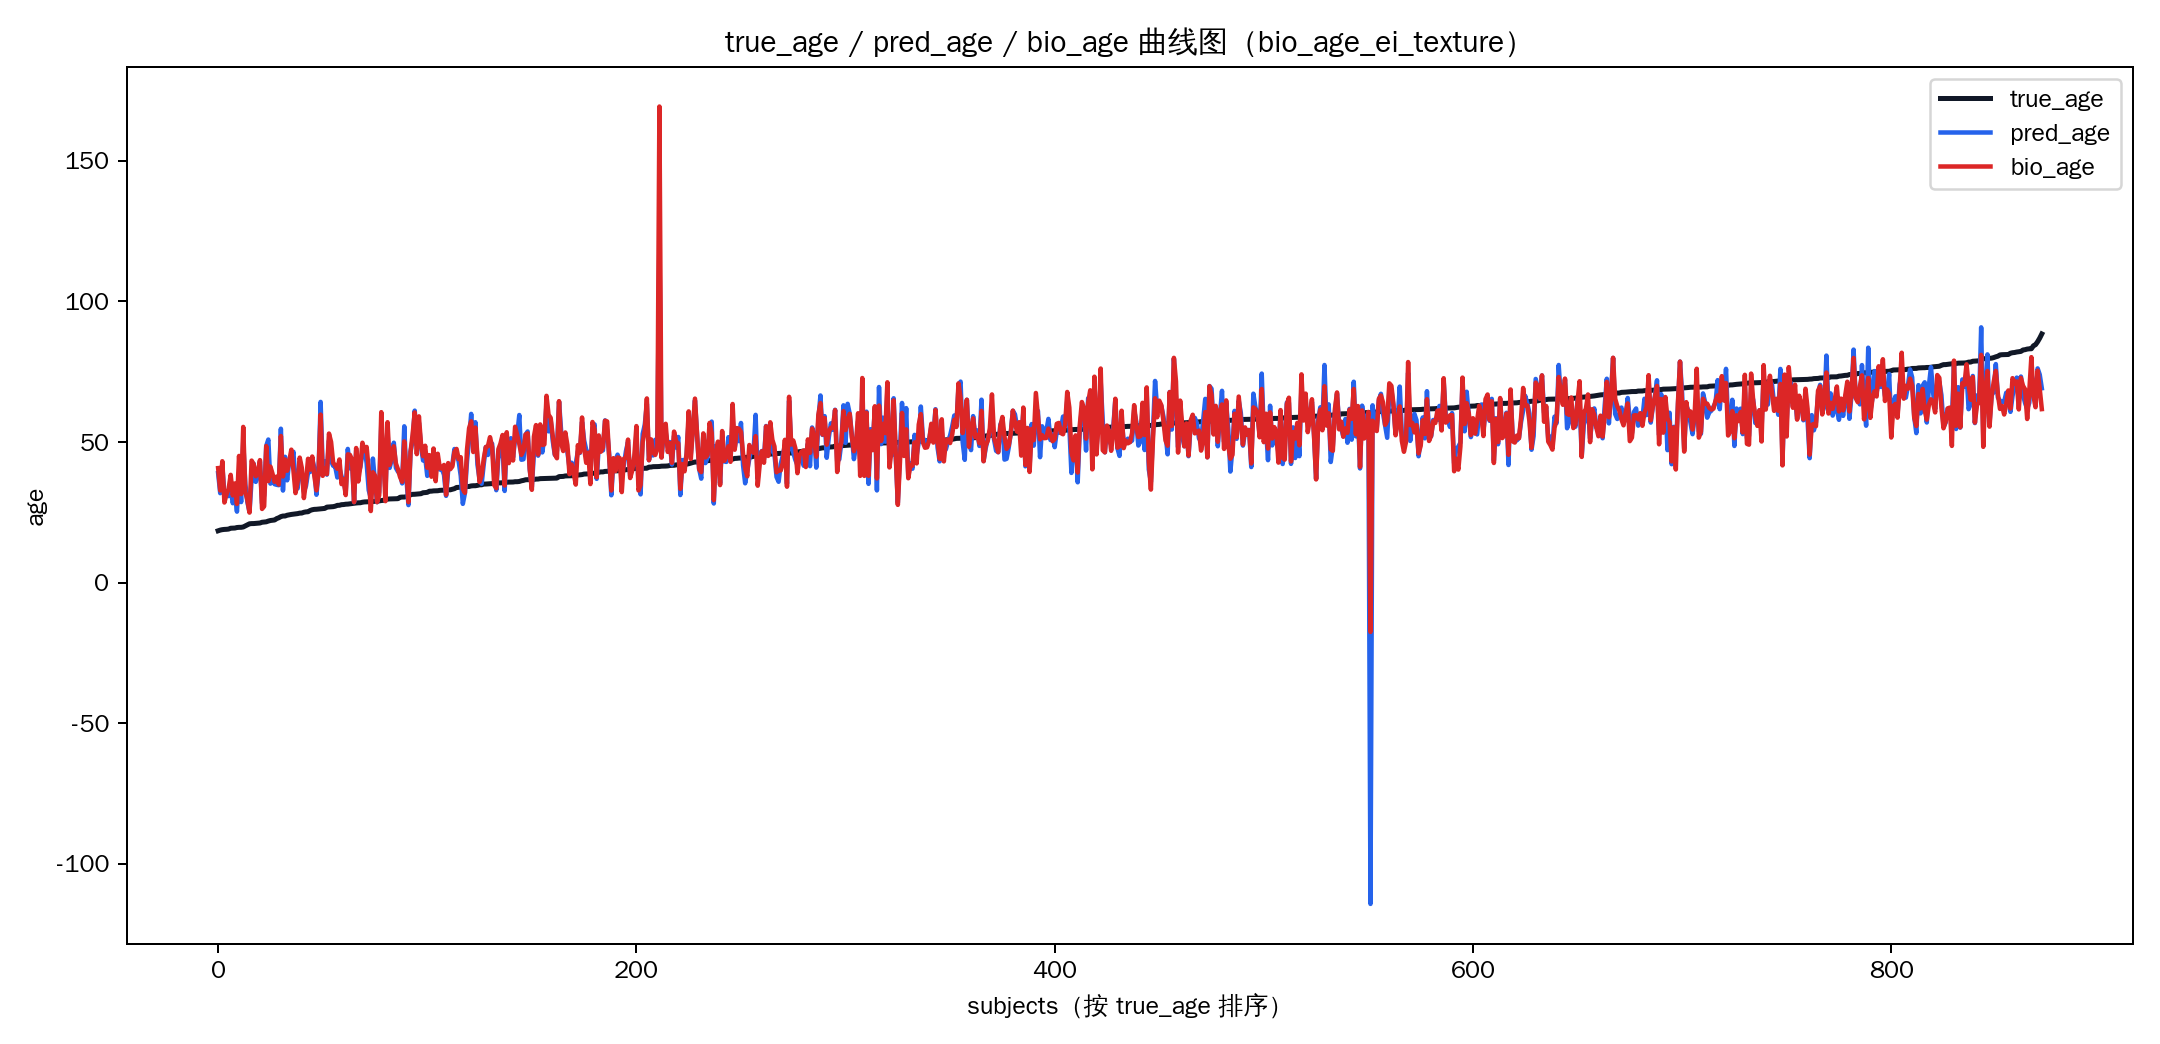
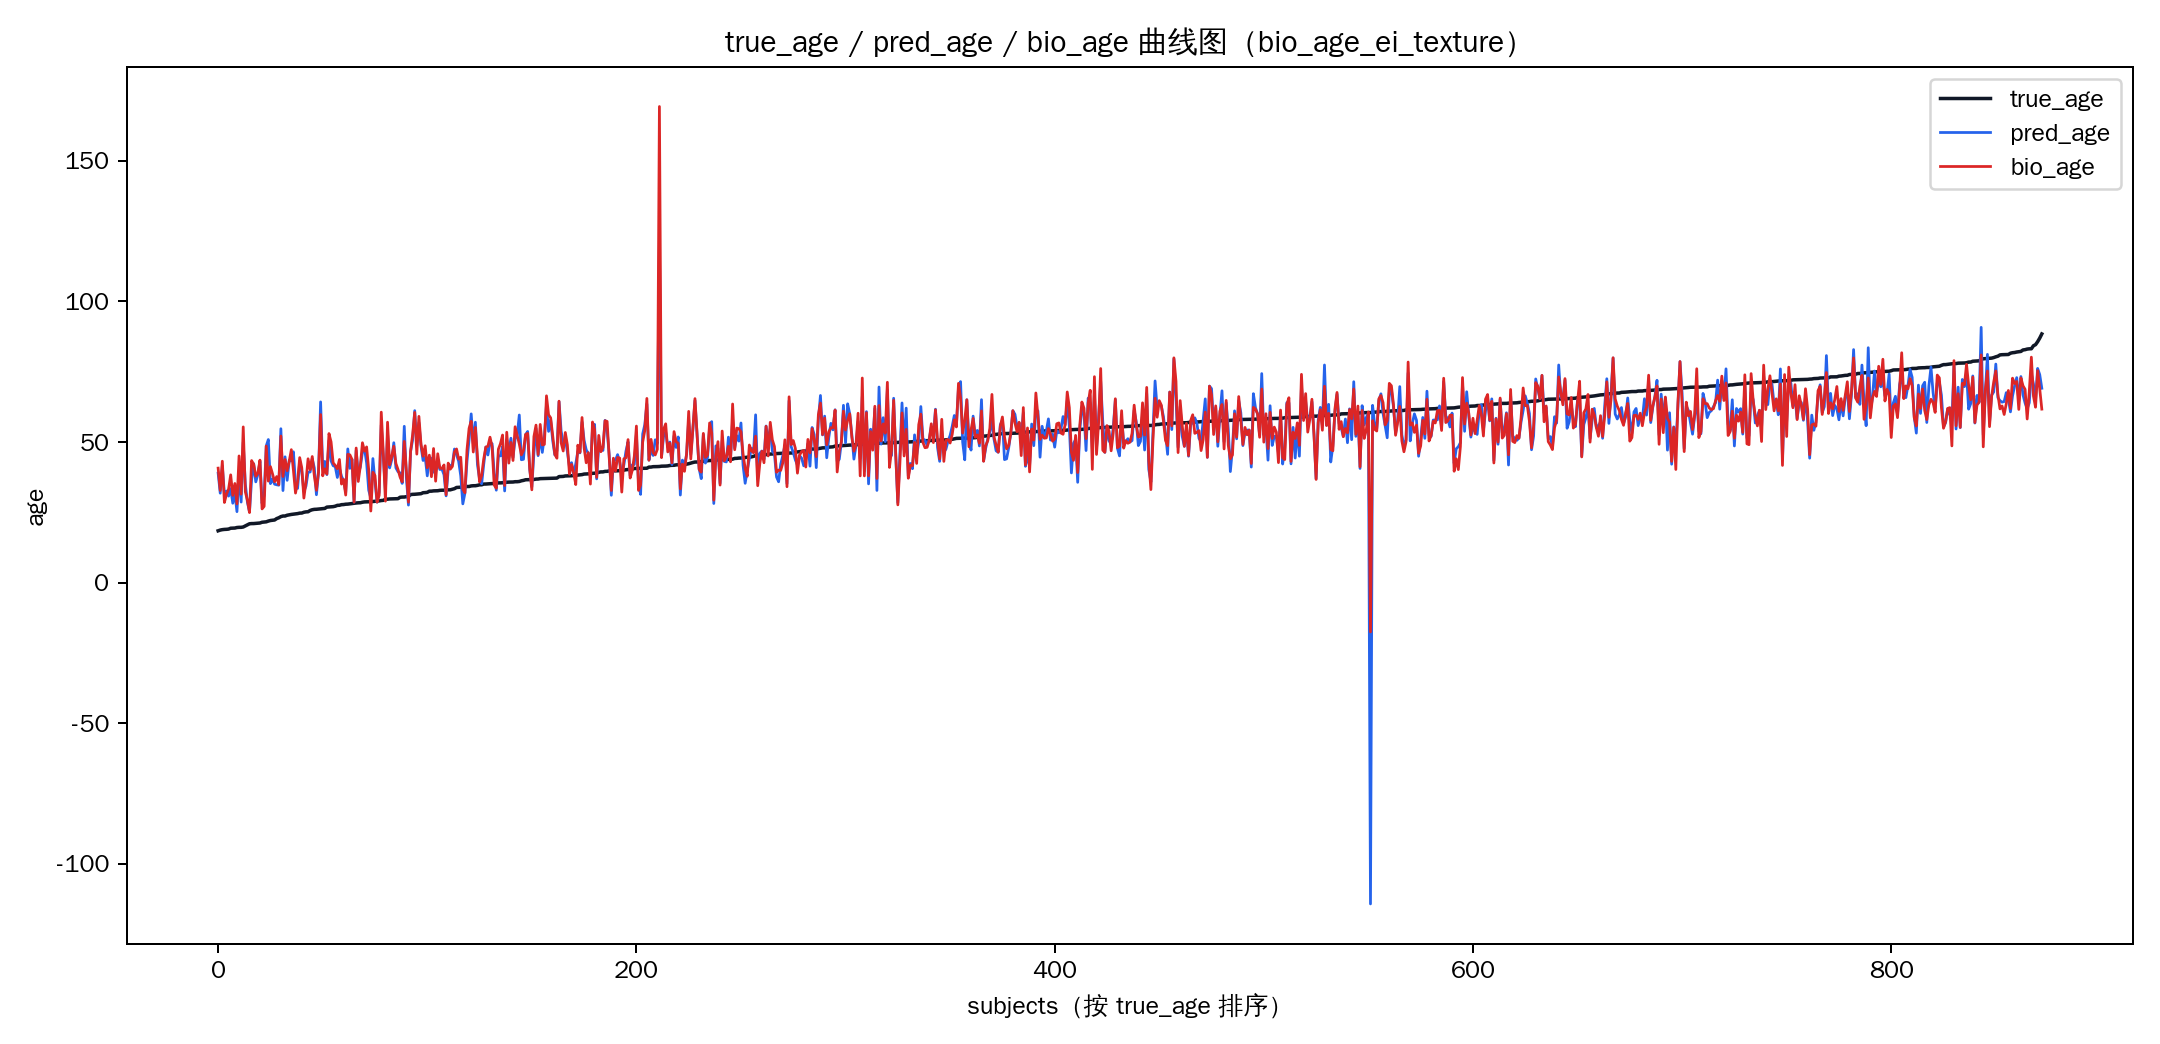
Use 10-year segmented age curves in single report

Changed region(s): [[0.0931, 0.3372, 0.9616, 0.4904]]

diff --git a/state_age_feature_benchmark/build_single_ml_report.py b/state_age_feature_benchmark/build_single_ml_report.py
@@ -35,8 +35,8 @@ AXIS_DESCRIPTIONS = {
     "bio_age_texture_metadata": "实用上限参考，不作为主科学定义。",
     "bio_age_full_image_upper_bound": "实用上限参考，不作为主科学定义。",
 }
-AGE_BINS = [18.0, 40.0, 60.0, 80.0, float("inf")]
-AGE_BAND_LABELS = ["18-39", "40-59", "60-79", "80+"]
+AGE_BINS = [18.0, 30.0, 40.0, 50.0, 60.0, 70.0, 80.0, 90.0, float("inf")]
+AGE_BAND_LABELS = ["18-29", "30-39", "40-49", "50-59", "60-69", "70-79", "80-89", "90+"]
 
 
 def infer_ml_run_name(pred_path: str) -> str:
@@ -104,9 +104,9 @@ def save_age_curve_plot(frame: pd.DataFrame, path: Path, title: str) -> None:
     plot_frame = frame.sort_values(["true_age", "subject_id"]).reset_index(drop=True).copy()
     x = np.arange(len(plot_frame))
     plt.figure(figsize=(12, 5.8))
-    plt.plot(x, plot_frame["true_age"], label="true_age", linewidth=2.0, color="#111827")
-    plt.plot(x, plot_frame["pred_age"], label="pred_age", linewidth=1.8, color="#2563eb")
-    plt.plot(x, plot_frame["bio_age"], label="bio_age", linewidth=1.8, color="#dc2626")
+    plt.plot(x, plot_frame["true_age"], label="true_age", linewidth=1.4, color="#111827")
+    plt.plot(x, plot_frame["pred_age"], label="pred_age", linewidth=1.1, color="#2563eb")
+    plt.plot(x, plot_frame["bio_age"], label="bio_age", linewidth=1.1, color="#dc2626")
     plt.xlabel("subjects（按 true_age 排序）")
     plt.ylabel("age")
     plt.title(title)
@@ -131,15 +131,18 @@ def save_age_segment_curve_plot(frame: pd.DataFrame, path: Path, title: str) -> 
     groups = [(label, g) for label, g in groups if not g.empty]
     if not groups:
         return
-    fig, axes = plt.subplots(2, 2, figsize=(13, 8), sharey=True)
+    n_panels = len(groups)
+    n_cols = 2
+    n_rows = int(np.ceil(n_panels / n_cols))
+    fig, axes = plt.subplots(n_rows, n_cols, figsize=(13, max(8, 3.6 * n_rows)), sharey=True)
     axes = axes.flatten()
     for ax in axes[len(groups):]:
         ax.axis("off")
     for ax, (label, group) in zip(axes, groups):
         x = np.arange(len(group))
-        ax.plot(x, group["true_age"], label="true_age", linewidth=2.0, color="#111827")
-        ax.plot(x, group["pred_age"], label="pred_age", linewidth=1.8, color="#2563eb")
-        ax.plot(x, group["bio_age"], label="bio_age", linewidth=1.8, color="#dc2626")
+        ax.plot(x, group["true_age"], label="true_age", linewidth=1.3, color="#111827")
+        ax.plot(x, group["pred_age"], label="pred_age", linewidth=1.0, color="#2563eb")
+        ax.plot(x, group["bio_age"], label="bio_age", linewidth=1.0, color="#dc2626")
         ax.set_title(f"{label} 岁")
         ax.set_xlabel("subjects（段内按 true_age 排序）")
         ax.set_ylabel("age")
@@ -336,8 +339,8 @@ def build_single_ml_report(bio_age_run: Path, output_root: Path | None = None, m
     )
     save_age_segment_curve_plot(
         best_main_subject,
-        figures_dir / "10_true_bio_pred_curve_by_20y_segments_best_main_axis.png",
-        f"按 20 岁分段的 true_age / pred_age / bio_age 曲线图（{best_main_axis}）",
+        figures_dir / "10_true_bio_pred_curve_by_10y_segments_best_main_axis.png",
+        f"按 10 岁分段的 true_age / pred_age / bio_age 曲线图（{best_main_axis}）",
     )
 
     metadata = {
@@ -401,7 +404,7 @@ def build_single_ml_report(bio_age_run: Path, output_root: Path | None = None, m
     lines.append("- `figures/04_worst_subjects_main_axes.png`：最难对齐的 subjects。")
     lines.append("- `figures/05_pred_age_vs_true_age.png` 与 `06-08`：散点关系图。")
     lines.append("- `figures/09_true_bio_pred_curve_best_main_axis.png`：最佳主参考轴下 true_age、pred_age、bio_age 三条曲线图。")
-    lines.append("- `figures/10_true_bio_pred_curve_by_20y_segments_best_main_axis.png`：将 09 图按 20 岁分段后的曲线图。")
+    lines.append("- `figures/10_true_bio_pred_curve_by_10y_segments_best_main_axis.png`：将 09 图按 10 岁分段后的曲线图。")
     lines.append("")
     lines.append("## 建议阅读顺序")
     lines.append("1. 先看 `summary.md` 的主参考轴总览。")

diff --git a/results/reports/single_ml/run_20260411_003506_ta_healthy_nested_cv_fusion_whole_roi_masked_cached_ridge/summary.md b/results/reports/single_ml/run_20260411_003506_ta_healthy_nested_cv_fusion_whole_roi_masked_cached_ridge/summary.md
@@ -37,7 +37,7 @@
 - `figures/04_worst_subjects_main_axes.png`：最难对齐的 subjects。
 - `figures/05_pred_age_vs_true_age.png` 与 `06-08`：散点关系图。
 - `figures/09_true_bio_pred_curve_best_main_axis.png`：最佳主参考轴下 true_age、pred_age、bio_age 三条曲线图。
-- `figures/10_true_bio_pred_curve_by_20y_segments_best_main_axis.png`：将 09 图按 20 岁分段后的曲线图。
+- `figures/10_true_bio_pred_curve_by_10y_segments_best_main_axis.png`：将 09 图按 10 岁分段后的曲线图。
 
 ## 建议阅读顺序
 1. 先看 `summary.md` 的主参考轴总览。
